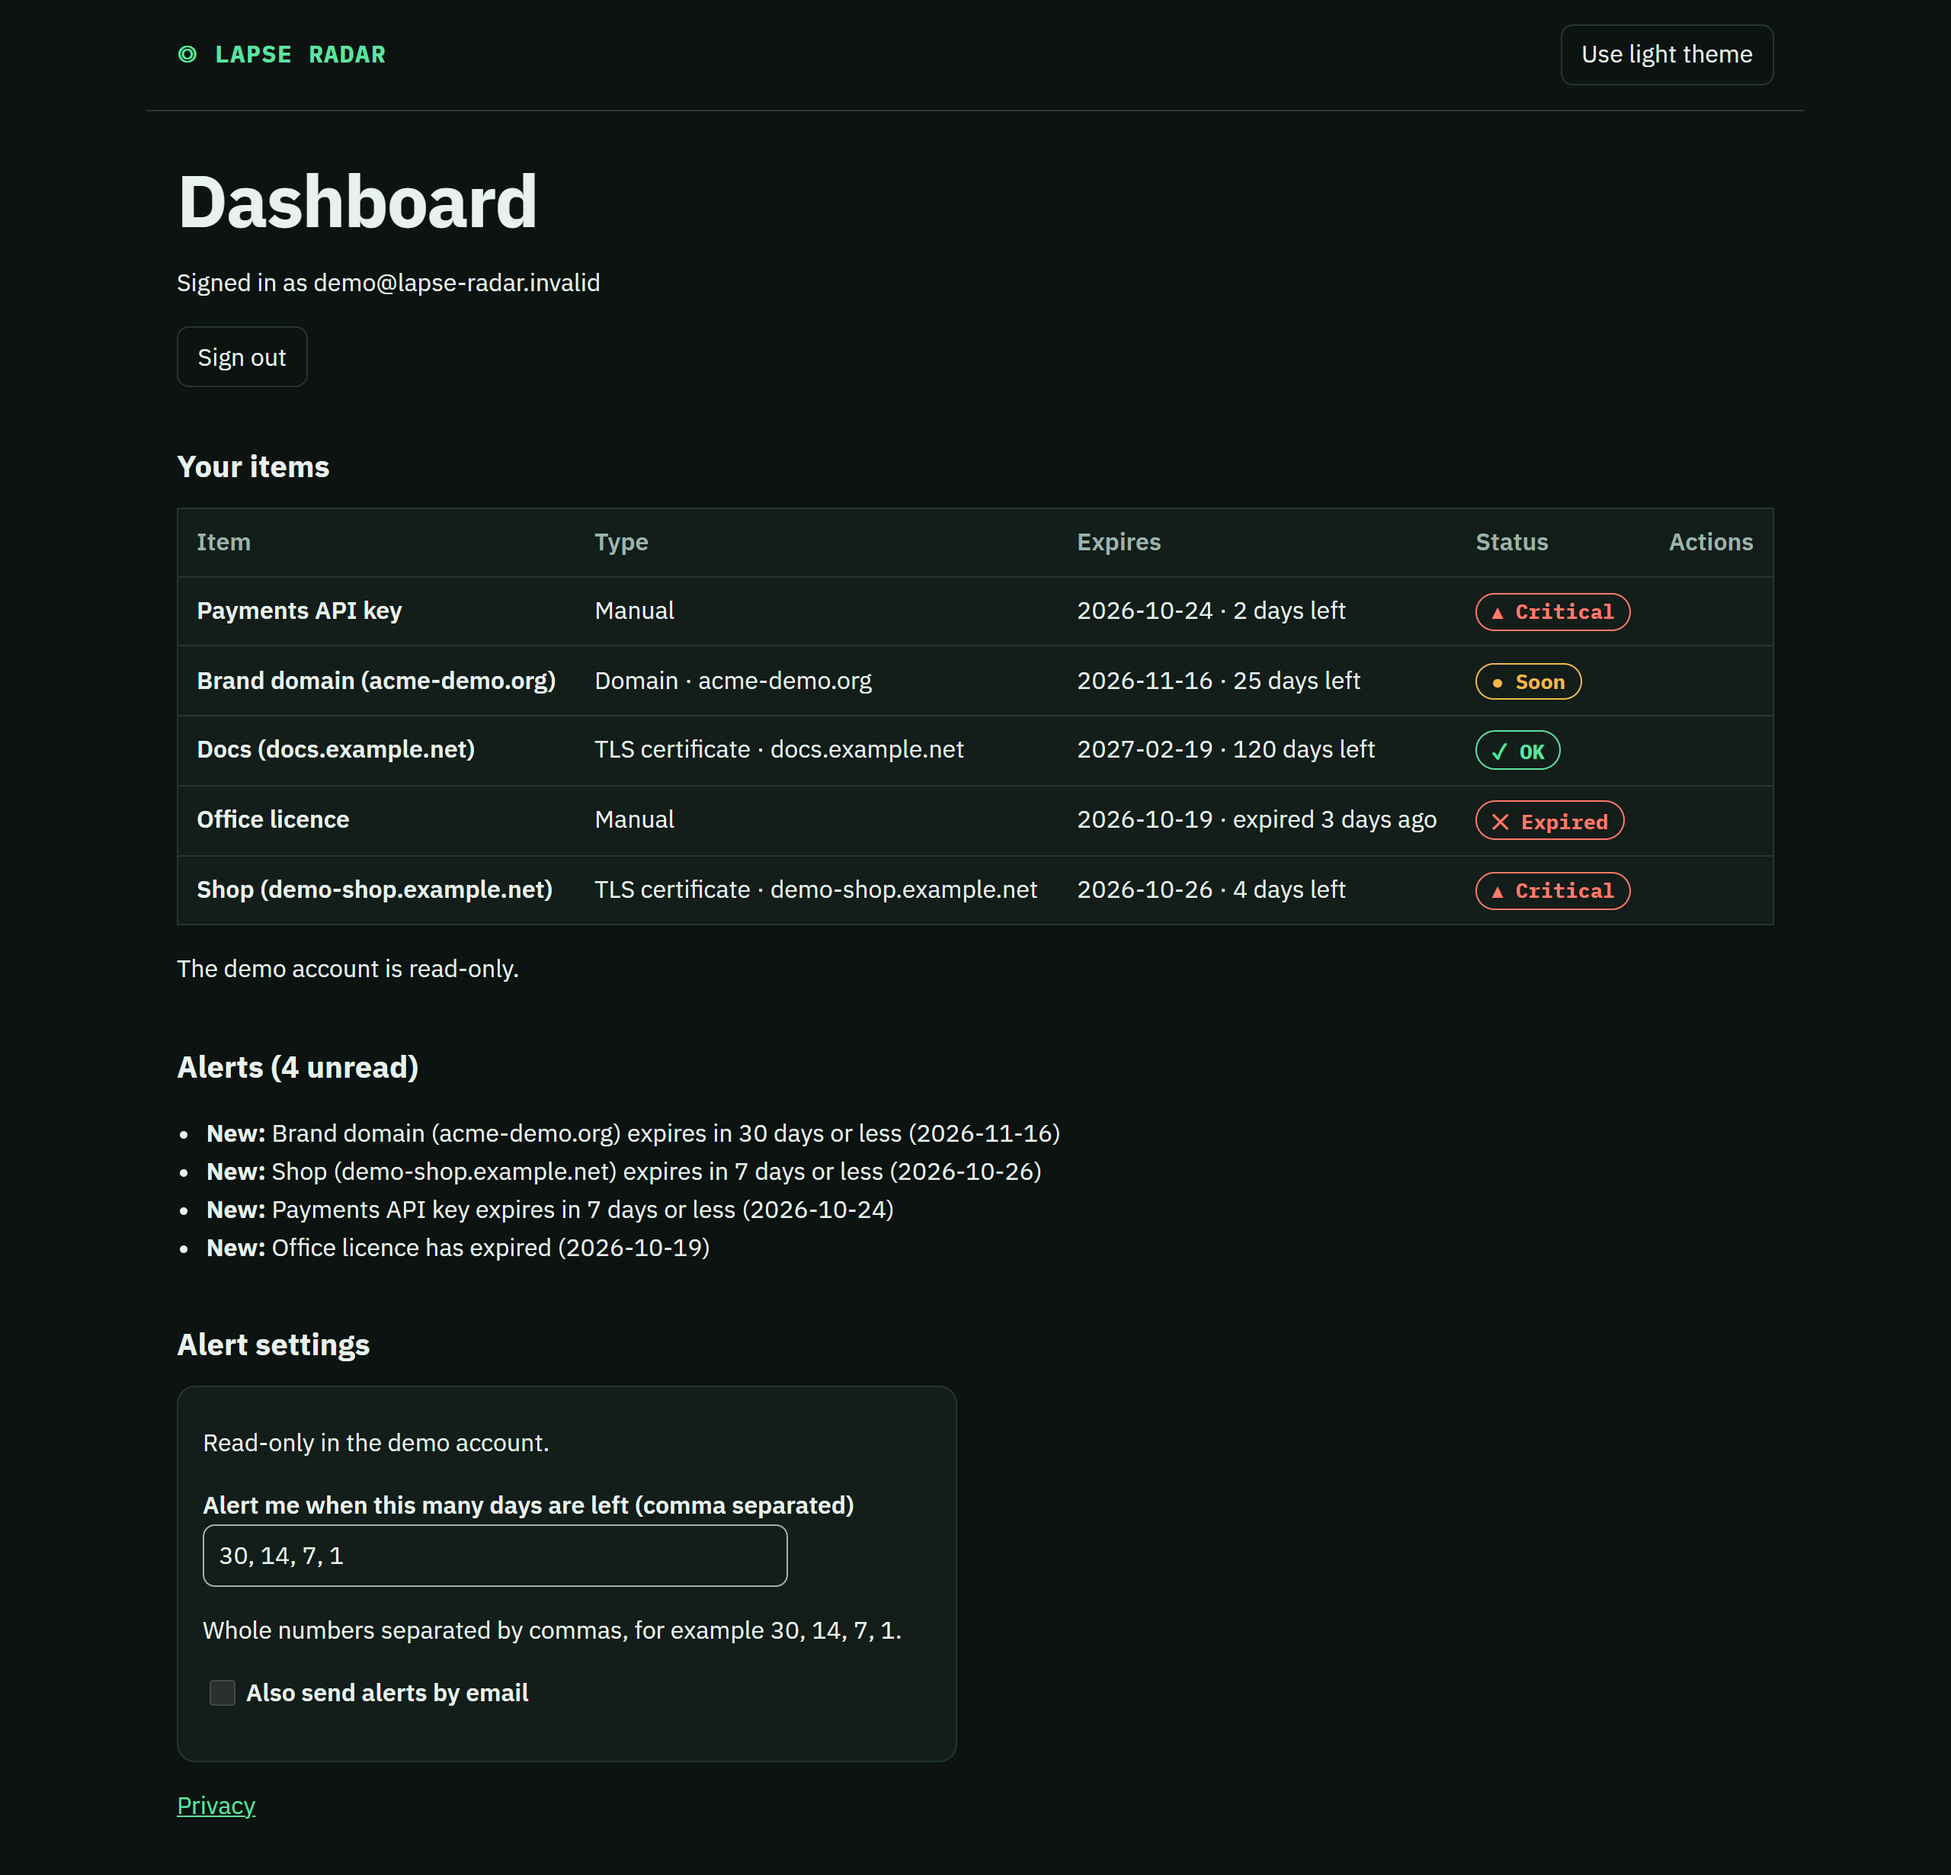
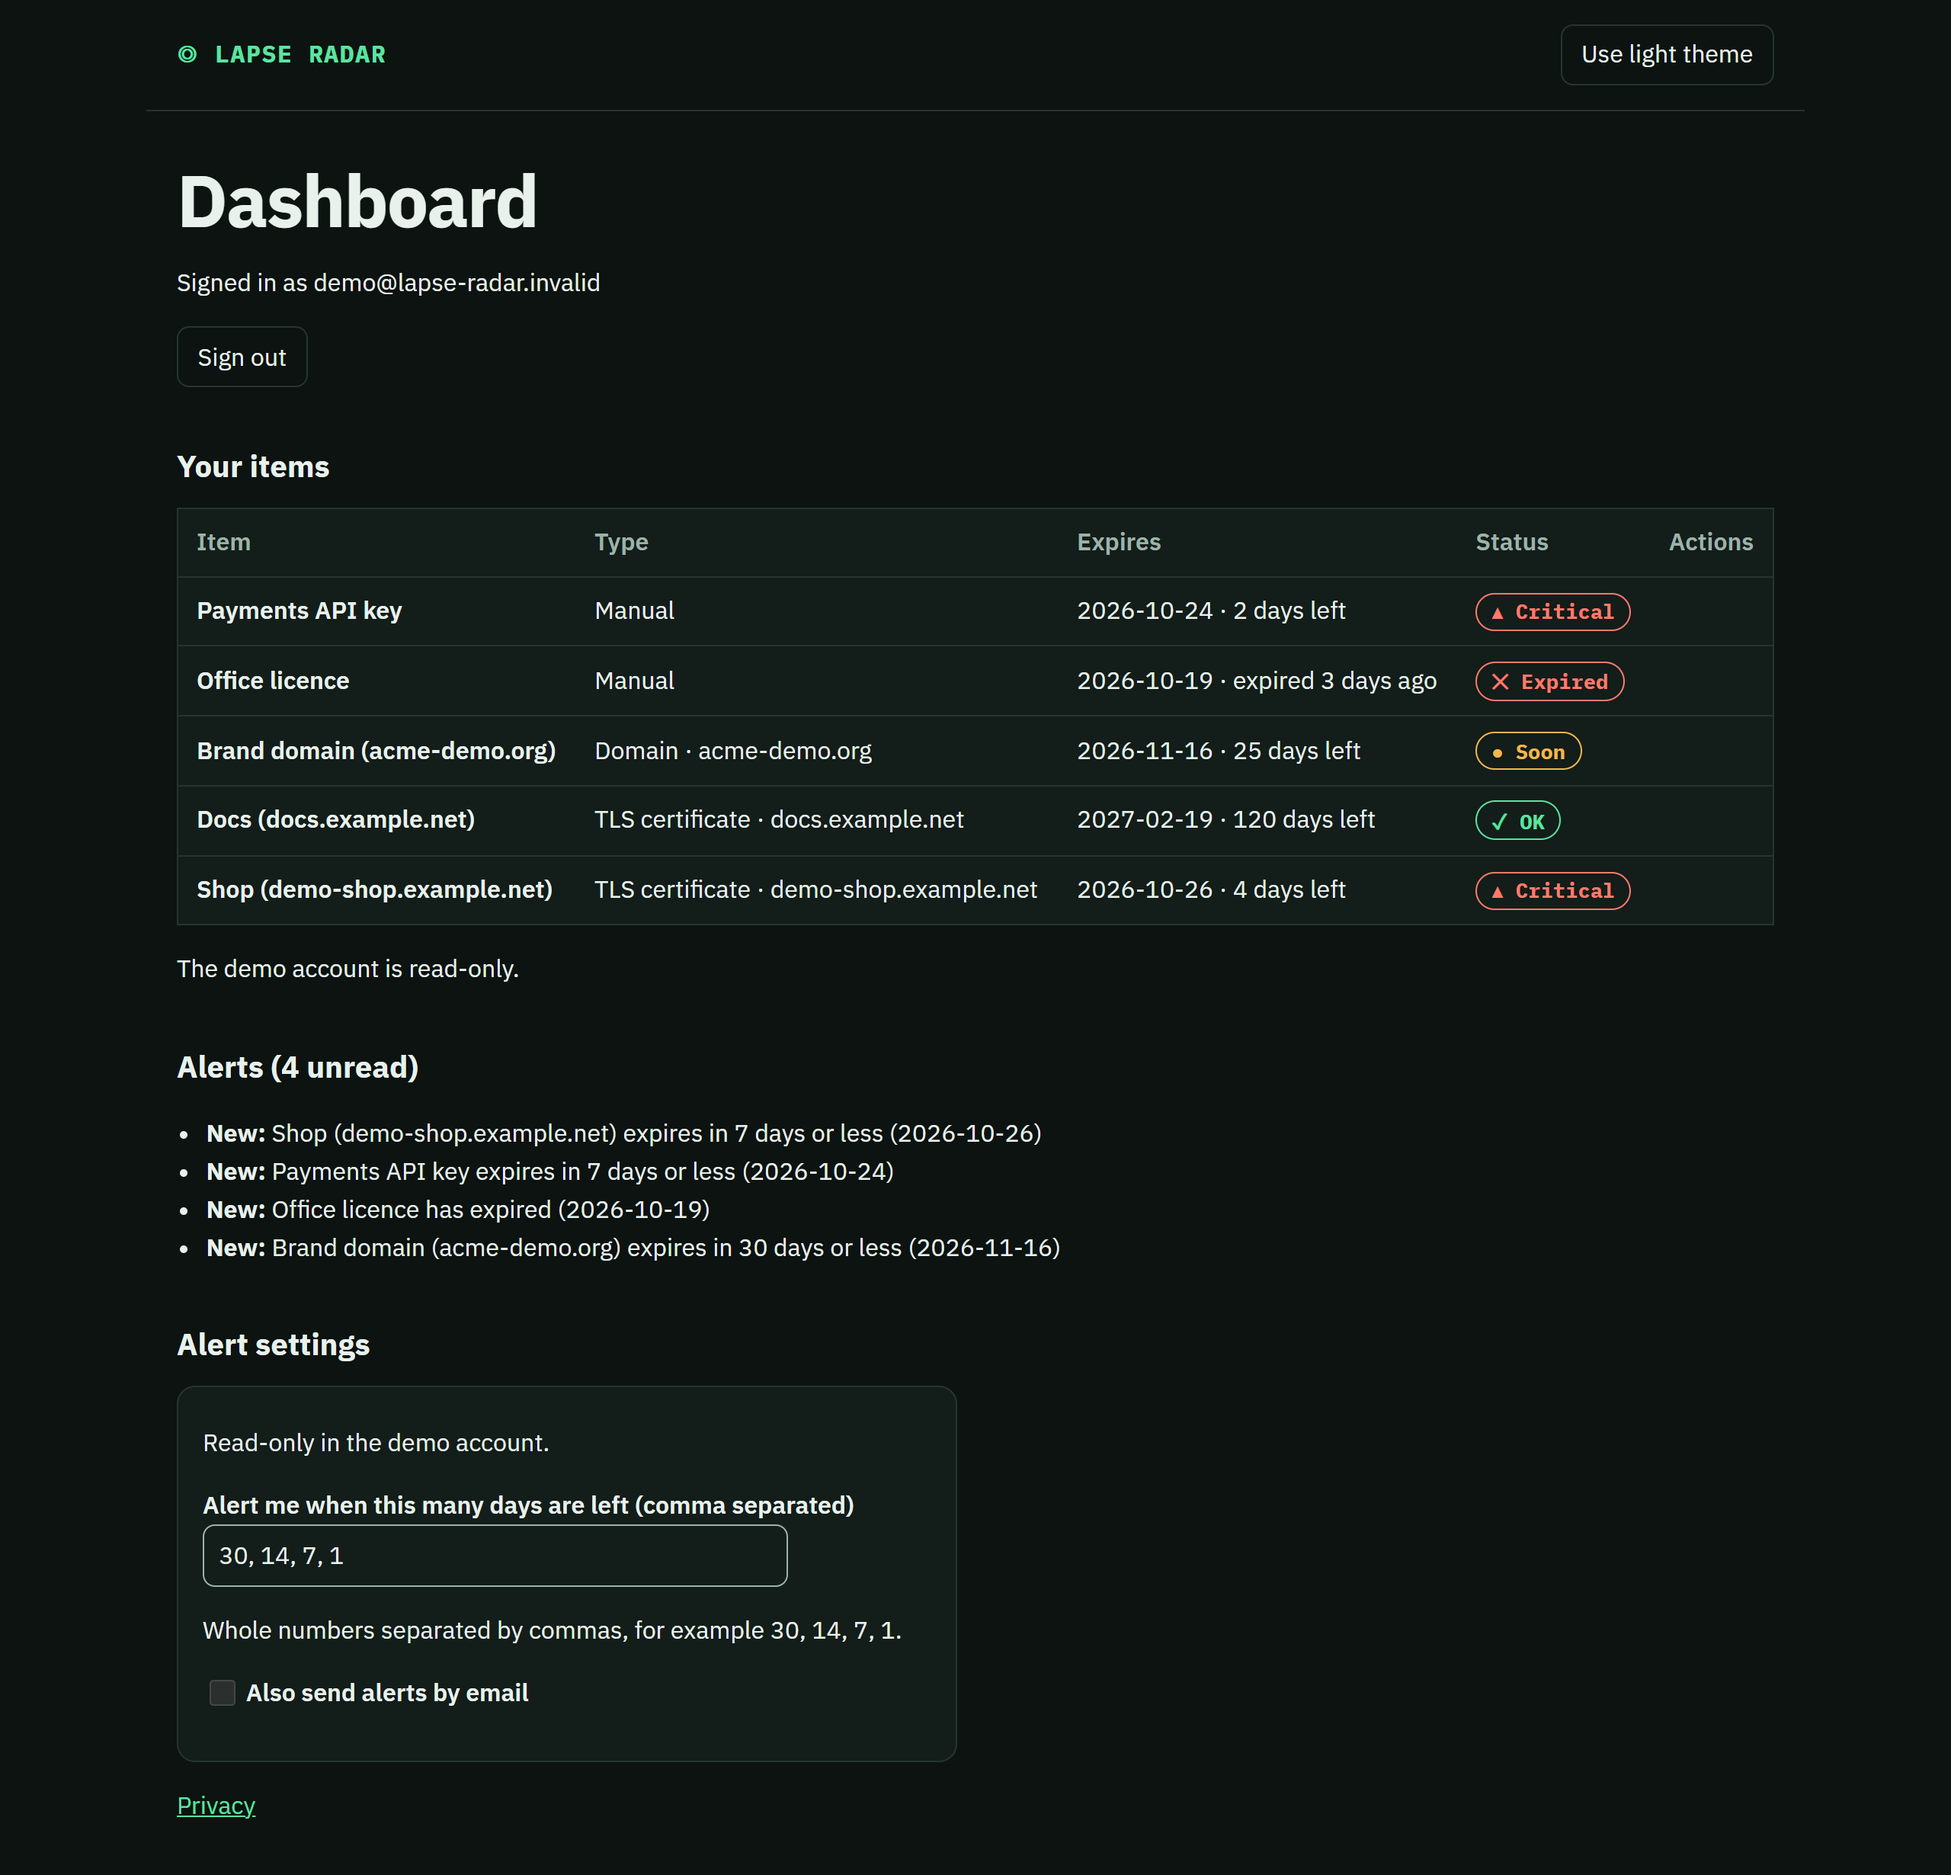
docs: link the live demo, add real screenshots and Lighthouse figures from the deployed site

diff --git a/README.md b/README.md
@@ -7,6 +7,8 @@
 
 > A portfolio project built with AI assistance. It is a demo-scale service, not a commercial product: see [Limitations](#limitations).
 
+**Live demo: <https://lapse-radar.netlify.app>** (press "Try the read-only demo"; no sign-up needed).
+
 ![Landing page with the radar graphic](docs/landing-light.png)
 
 ![Dashboard in dark theme: items with status chips, alerts and settings](docs/dashboard-dark.png)
@@ -85,7 +87,7 @@ Set these as environment variables (never commit them):
 
 - **Tests:** unit tests for the pure expiry maths, SSRF rules, TLS/RDAP parsing (with fixtures), the alert engine (renewal, single threshold, expired), the scheduled run and lock, email quota, auth, isolation between users and account deletion; Playwright tests for sign-up, items, alerts, settings, the demo, deletion, keyboard use, focus and theme.
 - **CI:** GitHub Actions runs `npm run check` and the E2E suite on pushes to `main` and `release` and on pull requests.
-- **Lighthouse** (Chrome headless, mobile profile, production build served locally without the hosting headers, measured 2026-10-22): accessibility 100 on the home, sign-in, sign-up and privacy pages and on the demo dashboard; SEO 100 on the home page. Re-measure on the deployed site before relying on these numbers.
+- **Lighthouse** on the deployed site (Chrome headless, mobile profile, measured 2026-10-22): accessibility 100 on the home, sign-in, sign-up and privacy pages and on the demo dashboard; SEO 100; performance 95-97; best practices 92. The best-practices gap is a Content Security Policy console error whose source is `about:srcdoc`; it appears to come from a script that Netlify injects into the served HTML (`/.netlify/scripts/hud`), since the app's own HTML has no inline script or style (not proven).
 - Not tested with a real screen reader.
 
 ## Limitations
@@ -107,7 +109,7 @@ What is stored and who processes it is described in plain language on the in-app
 
 ## Project status
 
-Working toward a first release. See the commit history for the build log. This README states only what the code does today.
+Version 0.1.0 is deployed at the demo link above. See the commit history for the build log. This README states only what the code does today.
 
 ## License
 
